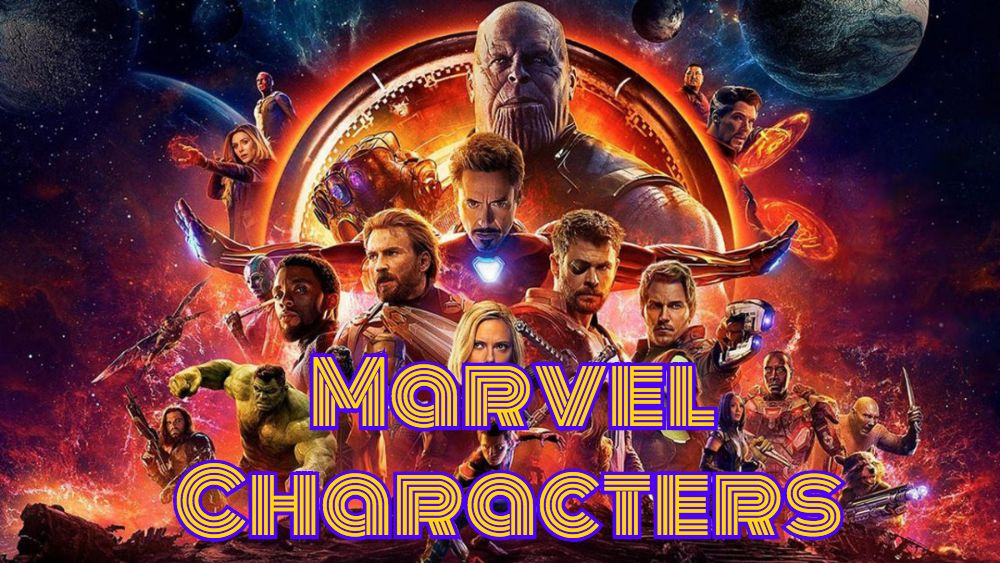
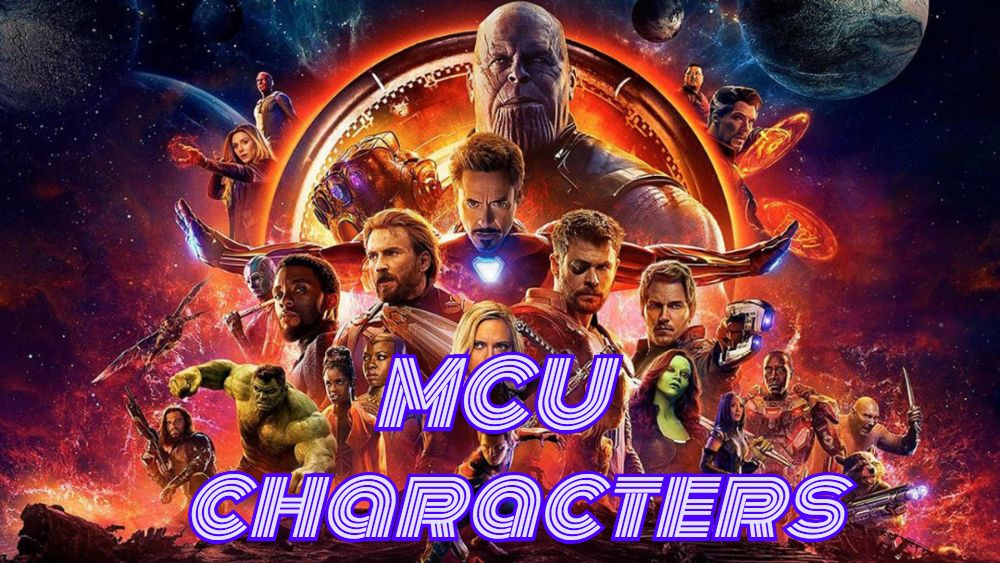
Added information of 2 characters in marvelCahracters.html

Changed region(s): [[0.155, 0.8153, 0.868, 0.9663], [0.31, 0.6039, 0.744, 0.7851]]

diff --git a/marvelCharacters.html b/marvelCharacters.html
@@ -1,3 +1,146 @@
 <html>
-characters
+  <body>
+    <h1>1. Tony Stark</h1>
+    <img
+      width="500"
+      height="350"
+      src="html-mustakip/images/ironMan.jpg"
+      alt="IronMan"
+    />
+    <img
+      width="550"
+      height="350"
+      src="html-mustakip/images/robertDowney.jpg"
+      alt="Robert Downey Jr."
+    />
+    <a href="https://bit.ly/2RofS1Y">more images.</a> <br /><br /><br />
+    <table>
+      <tr>
+        <td valign="top" width="300">
+          <table>
+            <tr>
+              <td>
+                <font size="4"> <b>Role played by :</b> </font>
+              </td>
+              <td>
+                <a href="https://en.wikipedia.org/wiki/Robert_Downey_Jr."
+                  ><font size="4">Robert Downey Jr.</font></a
+                >
+              </td>
+            </tr>
+            <tr>
+              <td>
+                <font size="4"> <b>Introduced in :</b> </font>
+              </td>
+              <td><font size="4">2008</font></td>
+            </tr>
+            <tr>
+              <td>
+                <font size="4"> <b>First Movie :</b> </font>
+              </td>
+              <td>
+                <a href="https://en.wikipedia.org/wiki/Iron_Man_(2008_film)">
+                  <font size="4">Iron Man.</font></a
+                >
+              </td>
+            </tr>
+          </table>
+        </td>
+        <td>
+          <p>
+            <font size="4">
+              "Tony" Stark is a character portrayed by Robert Downey Jr. in the
+              Marvel Cinematic Universe (MCU) film franchise, based on the
+              Marvel Comics character of the same name and known commonly by his
+              alter ego, Iron Man. In the films, Tony Stark is an industrialist,
+              genius inventor, and consummate playboy who is CEO of Stark
+              Industries. At the beginning of the series, he is a chief weapons
+              manufacturer for the U.S. military, until he has a change of heart
+              and redirects his technical knowledge into the creation of powered
+              exoskeleton suits of armor which he uses to defend against those
+              that would threaten peace around the world.
+              <a
+                href="https://en.wikipedia.org/wiki/Tony_Stark_(Marvel_Cinematic_Universe)"
+                >more.</a
+              >
+            </font>
+          </p>
+        </td>
+      </tr>
+    </table>
+
+    <br /><br /><br />
+    <h1>2. Thor</h1>
+    <img
+      width="500"
+      height="350"
+      src="html-mustakip/images/thorfinal.jpg"
+      alt="Thor"
+    />
+    <img
+      width="550"
+      height="350"
+      src="html-mustakip/images/thor1.jpg"
+      alt="Robert Downey Jr."
+    />
+    <a href="https://bit.ly/2s0dAYQ">more images.</a> <br /><br /><br />
+    <table>
+      <tr>
+        <td valign="top" width="300">
+          <table>
+            <tr>
+              <td>
+                <font size="4"> <b>Role played by :</b> </font>
+              </td>
+              <td>
+                <a href="https://en.wikipedia.org/wiki/Chris_Hemsworth"
+                  ><font size="4">Chris Hemsworth</font></a
+                >
+              </td>
+            </tr>
+            <tr>
+              <td>
+                <font size="4"> <b>Introduced in :</b> </font>
+              </td>
+              <td><font size="4">2011</font></td>
+            </tr>
+            <tr>
+              <td>
+                <font size="4"> <b>First Movie :</b> </font>
+              </td>
+              <td>
+                <a href="https://en.wikipedia.org/wiki/Thor_(film)">
+                  <font size="4">Thor</font></a
+                >
+              </td>
+            </tr>
+          </table>
+        </td>
+        <td>
+          <p>
+            <font size="4">
+              Thor Odinson is a character portrayed by Chris Hemsworth in the
+              Marvel Cinematic Universe (MCU) film franchise, based on the
+              Marvel Comics character of the same name. In the films, Thor is
+              one of the most powerful of the Asgardians, an alien civilization
+              with long ties to Earth, who are therefore considered by some on
+              Earth (and by themselves) to be gods. Thor himself is titled the
+              "God of Thunder". The Asgardians have advanced science that seems
+              like magic to people of Earth, typified in Thor's case by his
+              hammer, Mjolnir, with which he can summon lightning through most
+              of the films. Thor in the MCU has borrowed a number of
+              characteristics and story lines from across the fifty-plus year
+              history of the character in Marvel Comics. However, unlike most
+              other characters in the franchise, Thor has no superhero "alter
+              ego", a characteristic that also differs from the original comic
+              book version of Thor.
+              <a href="https://en.wikipedia.org/wiki/Thor_(Marvel_Cinematic_Universe)">more.</a>
+            </font>
+          </p>
+        </td>
+      </tr>
+    </table>
+
+    <br /><br /><br /><br />
+  </body>
 </html>

diff --git a/index.html b/index.html
@@ -2,7 +2,7 @@
   <body >
     <br>
       <center>
-        <img width = 800 height = 200 src="./images/marvellogo.png" alt="MARVEL-STUDIOS"><br><br><br><br><br>
+        <img width = 800 height = 200 src="html-mustakip/images/marvellogo.png" alt="MARVEL-STUDIOS"><br><br><br><br><br>
     </center>
     <font size = 5>
     Marvel Studios is an American motion picture studio based at the Walt Disney Studios in Burbank, California and is a  subsidiary of Walt Disney Studios, itself a wholly owned division of The Walt Disney Company, with film producer Kevin Feige serving as president. Previously, the studio was a subsidiary of Marvel Entertainment until Disney reorganized the companies in August 2015.<br><br>Dedicated to producing films based on Marvel Comics characters, the studio has been involved in three Marvel-character film franchises to have exceeded $1 billion in North American revenue: the X-Men, Spider-Man, and Marvel Cinematic Universe multi-film franchises. The Spider-Man franchise is licensed to Sony Pictures. Since 2012, Marvel Studios' films are distributed theatrically by Walt Disney Studios Motion Pictures, having previously been distributed by Paramount Pictures from 2008 to 2011. Universal Pictures distributed The Incredible Hulk (2008) and has the right of first refusal to distribute any future Hulk films produced by Marvel Studios, while Sony Pictures distributed Spider-Man: Homecoming (2017) and will distribute any future Spider-Man films produced in conjunction with Marvel Studios.<br><br>Marvel Studios has released 20 films since 2008 within the Marvel Cinematic Universe, from Iron Man (2008) to Ant-Man and the Wasp (2018). These films all share continuity with each other, along with the One-Shots produced by the studio and the television shows produced by Marvel Television. The series has grossed over $17 billion at the global box office, making it the highest-grossing film franchise of all time. <br><br>
@@ -11,10 +11,10 @@
     <table align = "center">
       <tr align = "center">
         <td width = 700>
-          <a href="./marvelCharacters.html"><img width = 600 height = 400 src="./images/marvelcharacters.jpg" alt="marvelcharacters"></a> 
+          <a href="html-mustakip/marvelCharacters.html"><img width = 600 height = 400 src="html-mustakip/images/marvelcharacters.jpg" alt="marvelcharacters"></a> 
         </td>
         <td width = 700 >
-          <a href="./marvelTopMovies.html"><img width = 600 height = 400 src="./images/marvelmovies.jpg" alt="marvelmovies"></a>
+          <a href="html-mustakip/marvelTopMovies.html"><img width = 600 height = 400 src="html-mustakip/images/marvelmovies.jpg" alt="marvelmovies"></a>
         </td>
         </tr >
         </table><br><br><br><br>
